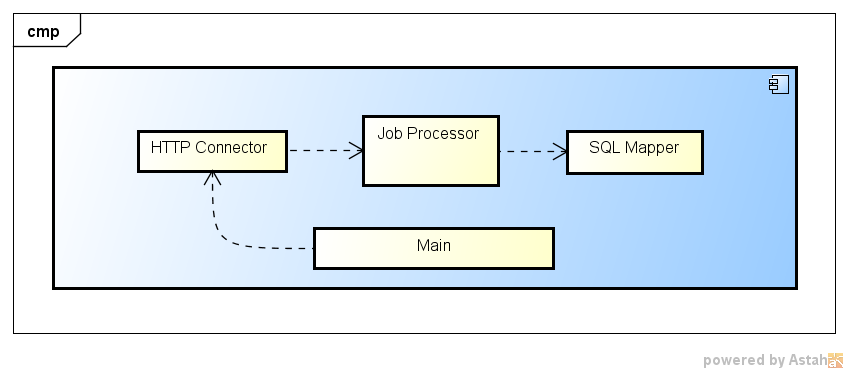
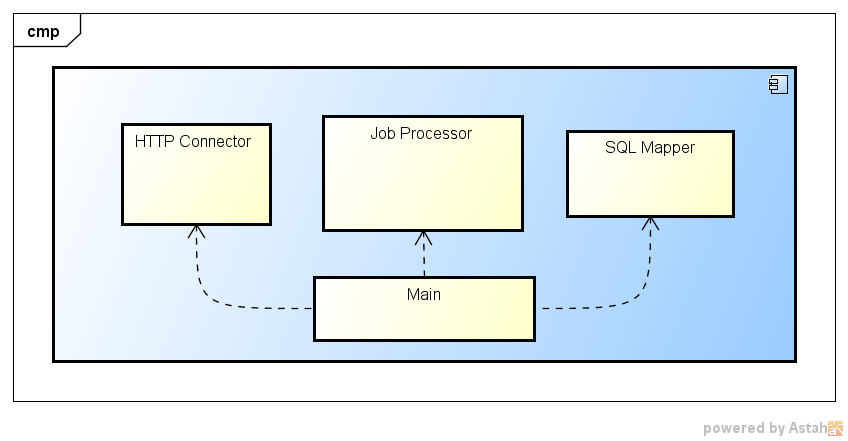
Update diagrams and README.md

diff --git a/README.md b/README.md
@@ -1,11 +1,30 @@
 Testable Services with Inverted Component Dependencies
 ======================================================
 
-A service provides some functionality in a certain environment. But in distributed systems, a service rarely exists on its own. Usually there are multiple services collaborating with each other and communicating via different protocols. Services might be wildly interconnected and dependent on each other in order to function.
+A service provides some functionality in a certain environment. A service is usually deployed as a long running process. But in distributed systems, a service rarely exists on its own. Usually there are multiple services collaborating with each other and communicating via different protocols. Services might be wildly interconnected and dependent on each other in order to function.
 
 
-Achieving Service Testability at the Component Level
-----------------------------------------------------
+Motivation
+==========
+
+Like components, testing services faces the same difficulties when it comes to dependencies: Services receive and submits requests from and to other services, which must be up and running.
+
+There are two main objectives when testing a service:
+
+- All interactions between the service and its surroundings.
+- The core business logic inside the service.
+
+A service has some typical interfaces to the external world:
+
+- A main entry point for starting and stopping. Examples: the `main()` class, `OnStart()/OnStop()` callbacks, signal handlers.
+- Input ports. Examples: TCP server socket, HTTP request handlers, monitoring a spool directory, a message queue.
+- Output adapters. Examples: a HTTP response writer, a database connection, a TCP connection to another service, a client for sending messages.
+
+A test must be able to interact with these interfaces, in order to arrange, act and assert. And while these interfaces might be well-known in advance, services are often not easily testable in isolation.
+
+
+Achieving Testability at the Component Level
+============================================
 
 The key idea is to design the internal components within a service in a way, that the service becomes testable at component level.
 
@@ -40,35 +59,14 @@ The following text is inspired by ideas introduced by Robert C. Martin (Uncle Bo
 Intent
 ======
 
-- Split-up the logic into a core component, and multiple peripheral components in order to test at the component level.
+- Split-up the logic into one core component, and multiple peripheral components in order to test at the component level.
 - Invert dependencies between components in order to make the core component agnostic of the context it runs in.
 - Each test in the harness targets a specific component in isolation, by taking the role of the collaborating components.
 - Each test exercises a single component, using only the component's public API (in contrast to unit tests, which may access non-public API).
 
 
-Motivation
-==========
-
-Like components, testing services faces the same difficulties when it comes to dependencies: Services receive and submits requests from and to other services.
-
-There are two objectives when testing a service:
-
-- All interactions between the service and its surroundings.
-- The core business logic inside the service.
-
-A service has some typical interfaces to the external world:
-
-- A main entry point for starting and stopping. Examples: the `main()` class, `OnStart()/OnStop()` callbacks, signal handlers.
-- Input ports. Examples: TCP server socket, HTTP request handlers, monitoring a spool directory, a message queue.
-- Output adapters. Examples: a HTTP response writer, a database connection, a TCP connection to another service, a client for sending messages.
-
-A test must be able to interact with these interfaces, in order to arrange, act and assert. And while these interfaces might be well-known in advance, services are often not easily testable in isolation.
-
-
 Structure
 =========
-
-The service code is split into one core component and one or more satellite components, such that each component can be tested in isolation.
 
 The core component is fully agnostic of the environment in which it operates. It contains a domain model and business logic, but no deployment-specific logic.
 
@@ -87,21 +85,21 @@ The test targets the Core Component through its API and fakes the external inter
 ![Testing the Core Component](diagrams/Testing_the_Core_Component.png?raw=true)
 
 
-Participants and Collaborations
--------------------------------
+Participants
+------------
 
 - Core Component - This is the Subject Under Test, which is exercised during the test.
-- Satellite Component - This is the regular collaborator of the core component, which is not used in the test.
-- Business Facade - This is the primary facade to the business logic inside the core component.
-- Request Handler - The primary input interface of the core component for accepting commands from any clients. It is used by the satellite component and implemented in the core component.
+- Satellite Component - A the regular collaborator of the core component, which is not used in the test.
+- Business Logic - Business rules, domain model, interactors.
+- Request Handler - The primary input interface of the core component for accepting commands from any client. It is used by the satellite component and implemented in the core component.
 - Response Handler - The primary output interface of the core component for emitting events to any observers. It is used by the core component and implemented in the satellite component.
-- Core Component Test - The test initializes the core component and mimics the behavior of the real satellite component by invoking commands on the Request Handler and asserting on events from the Response Handler.
+- Core Component Test - Initializes the core component and mimics the behavior of the real satellite component by invoking commands on the Request Handler and asserting on events from the Response Handler.
 
 
 Testing External Interactions
 =============================
 
-The test targets a Satellite Component through its protocol and fakes the business logic.
+The test targets a Satellite Component through its external protocol and fakes the business logic.
 
 ![Testing the Satellite Component](diagrams/Testing_the_Satellite_Component.png?raw=true)
 
@@ -110,10 +108,10 @@ Participants and Collaborations
 -------------------------------
 
 - Satellite Component - This is the Subject Under Test, which is exercised during the test.
-- Core Component - This is the regular collaborator of the satellite component, which is not used in the test.
-- External Service - This is another regular collaborator of the satellite component, which might use or be used by the satellite component.
-- Embedded Substitute - An in-memory substitute for the real External Service, for example a HTTP client or an embedded database.
-- Satellite Component Test - The test initializes the Embedded Service and then the Satellite Component. It uses the Embedded Substitute in combination with the Request Handler or Response Handler in order to act and assert.
+- Core Component - The regular collaborator of the satellite component, which is not used in the test.
+- External Service - Another regular collaborator of the satellite component, which might use or be used by the satellite component.
+- Embedded Substitute - An in-memory substitute for the real External Service, for example an embedded database.
+- Satellite Component Test - The test initializes the Embedded Substitute and then the Satellite Component. It uses the Embedded Substitute in combination with the Request Handler or Response Handler in order to act and assert.
 
 
 Consequences
@@ -127,7 +125,6 @@ A notable difference of the dependency-inverted design compared to a conventiona
 Implementation
 ==============
 
-
 All components are mapped one-to-one to physical artifacts, such as Jar files or .NET assemblies. The logical application boundary determines which code belongs to the core component and which code is placed into a satellite component.
 
 Each test follows the typical AAAA phases introduced by Uncle Bob:
@@ -138,7 +135,7 @@ Each test follows the typical AAAA phases introduced by Uncle Bob:
 
 Example-1: The satellite component wants to write into a database. The test uses an in-memory embedded database in order to accept SQL inserts from the target component.
 
-Example-2: The satellite component wants to accept HTTP requests. The test uses a HTTP client in order to send requests to the target component.
+Example-2: The satellite component wants to accept HTTP requests. The test uses an embedded HTTP client in order to send requests to the target component.
 
 The Arrange and Assert phases may be performed either directly through the component's API, or indirectly by pre-arranging some state or by checking some side-effect.
 
